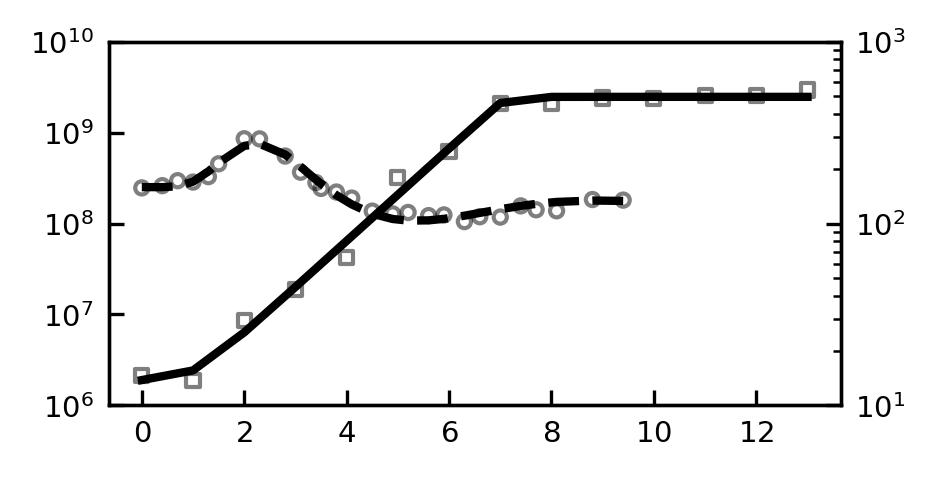
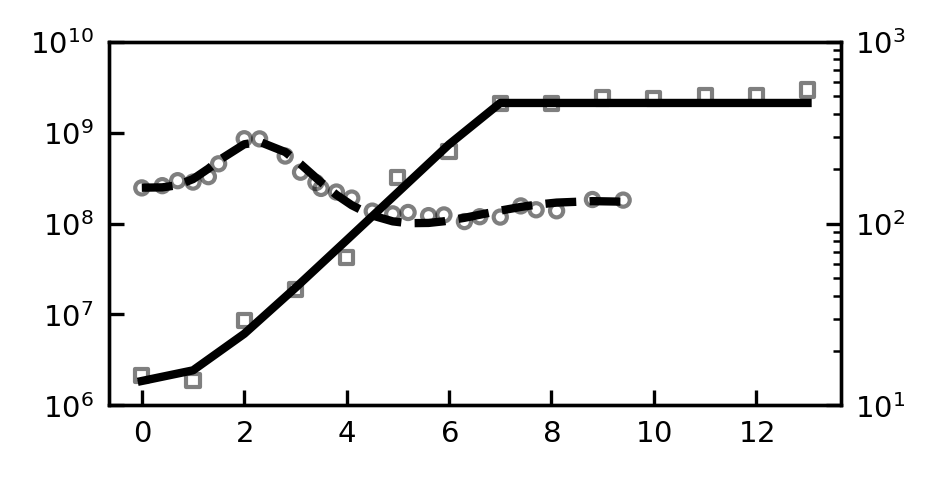
Corrected estimates, thus correcting figures

diff --git a/Simulations/Fig3_Comparisons/Script.py b/Simulations/Fig3_Comparisons/Script.py
@@ -32,6 +32,70 @@ PT = output_params["PT"]                                                    #
 PI0 = output_params["PIClosed"]                                             #
 #############################################################################
 
+#Obtain starting from just data:
+#Observed:
+ST = 4  #Last point of linearity
+
+#Mono closed
+tlag_closed = 1     #Time at which the lag ends
+lagwidth_closed = 1#1 #Approximate width of the lag
+
+#Co_open
+
+tendlag_closed =  8 - ST        #Time when saturation phase starts, minus T
+endlagwidth_closed = 4          #Width of the saturation transition
+
+
+#Parameter estimation:
+Sr = np.max(np.diff(np.log(S_Mono)))
+Sg1 = 1/lagwidth_closed * np.log((3 + np.sqrt(5))/(3 - np.sqrt(5)))
+Sg2 = 1/endlagwidth_closed * np.log((3+np.sqrt(5))/ (3 - np.sqrt(5)))
+
+Sb = np.exp(Sg2 * tendlag_closed)
+SI0 = np.exp(tlag_closed * Sg1) / Sb
+
+##############################################################################
+
+
+#Observed:
+PT = 6.5##7
+
+#Mono closed
+tlag_closed = 1.5
+lagwidth_closed = 2#1
+
+
+#Co_open
+tlag_open = 1
+
+
+tendlag_closed =  8 - PT
+endlagwidth_closed = 0.5#1
+
+
+#Parameter estimation:
+Pr = np.max(np.diff(np.log(P_Mono)))
+Pg1 = 1/lagwidth_closed * np.log((3 + np.sqrt(5))/(3 - np.sqrt(5)))
+Pg2 = 1/endlagwidth_closed * np.log((3+np.sqrt(5))/ (3 - np.sqrt(5)))
+
+Pb = np.exp(Pg2 * tendlag_closed)
+PI0 = np.exp(tlag_closed * Pg1) / Pb
+##############################################################################
+
+print("Initial guesses, S:",[Sr,Sb,Sg1,Sg2,ST,SI0 ])
+
+print("Initial guesses, P:",[Pr,Pb,Pg1,Pg2,PT,PI0 ])
+
+
+Sr,Sb,Sg1,Sg2,ST,SI0 = np.log10(np.asarray([Sr,Sb,Sg1,Sg2,ST,SI0 ]))
+Pr,Pb,Pg1,Pg2,PT,PI0 = np.log10(np.asarray([Pr,Pb,Pg1,Pg2,PT,PI0 ]))
+
+
+
+
+
+
+
 #Loss function
 lossfun = 'linear'#'soft_l1'
 f_scale = 1#0.05
@@ -60,11 +124,28 @@ for i in DATA:
         #params_init = (np.log10(1.18),np.log10(48),np.log10(3.65),np.log10(2.94*10**-2),np.log10(6.39),np.log10(0.93),np.log10(data[0]))
 
 
+    #Insight - driven
+    lower = (0,0,-3,-3,0,-5,-np.inf)
+    upper = (0.5,4,1,1,1,0,np.inf)
+
+
+    #Agnostic - driven
+    lower = (-np.inf,-np.inf,-np.inf,-np.inf,-np.inf,-np.inf,-np.inf)
+    upper = (np.inf,np.inf,np.inf,np.inf,np.inf,0,np.inf)
+
+
+
+    for j in range(len(params_init)):
+        print(lower[j],10**params_init[j],upper[j])
+
+
+
+
     objective = Objectives.MakeObjective(
             Models.MonoCulture_Closed,[data],[0])
 
-    results = least_squares(objective,params_init,ftol=1e-14,f_scale=f_scale,loss=lossfun)#,
-    #        bounds=[lower,upper])
+    results = least_squares(objective,params_init,ftol=1e-14,f_scale=f_scale,loss=lossfun,
+            bounds=[lower,upper])
 
     #Sr,Sb,I0_closed,I0_open,bI0,Sg1_mono,Sg1_co,Sg2,ST,SMonoClosed0,SMono0,SCo0 = results.x
 

diff --git a/Simulations/Fig2_Fitting/Script.py b/Simulations/Fig2_Fitting/Script.py
@@ -32,7 +32,7 @@ ST = 4  #Last point of linearity
 
 #Mono closed
 tlag_closed = 1     #Time at which the lag ends
-lagwidth_closed = 2#1 #Approximate width of the lag
+lagwidth_closed = 1#2#1 #Approximate width of the lag
 
 #Mono_open
 tlag_monoopen = 0.1
@@ -42,8 +42,8 @@ lagwidth_monoopen = 2#1
 tlag_open = 6
 lagwidth_open = 4
 
-tendlag_closed =  12 - ST        #Time when saturation phase starts, minus T
-endlagwidth_closed = 8          #Width of the saturation transition
+tendlag_closed =  8 - ST        #Time when saturation phase starts, minus T
+endlagwidth_closed = 4          #Width of the saturation transition
 
 
 
@@ -212,11 +212,11 @@ Param_Names = ("alpha",
 
 
 #Observed:
-PT = 7
+PT = 6.5#7
 
 #Mono closed
-tlag_closed = 1
-lagwidth_closed = 1
+tlag_closed = 1.5
+lagwidth_closed = 2#1
 
 
 #Co_open
@@ -225,7 +225,7 @@ lagwidth_open = 1
 
 
 tendlag_closed =  8 - PT
-endlagwidth_closed = 1
+endlagwidth_closed = 0.5
 
 
 
